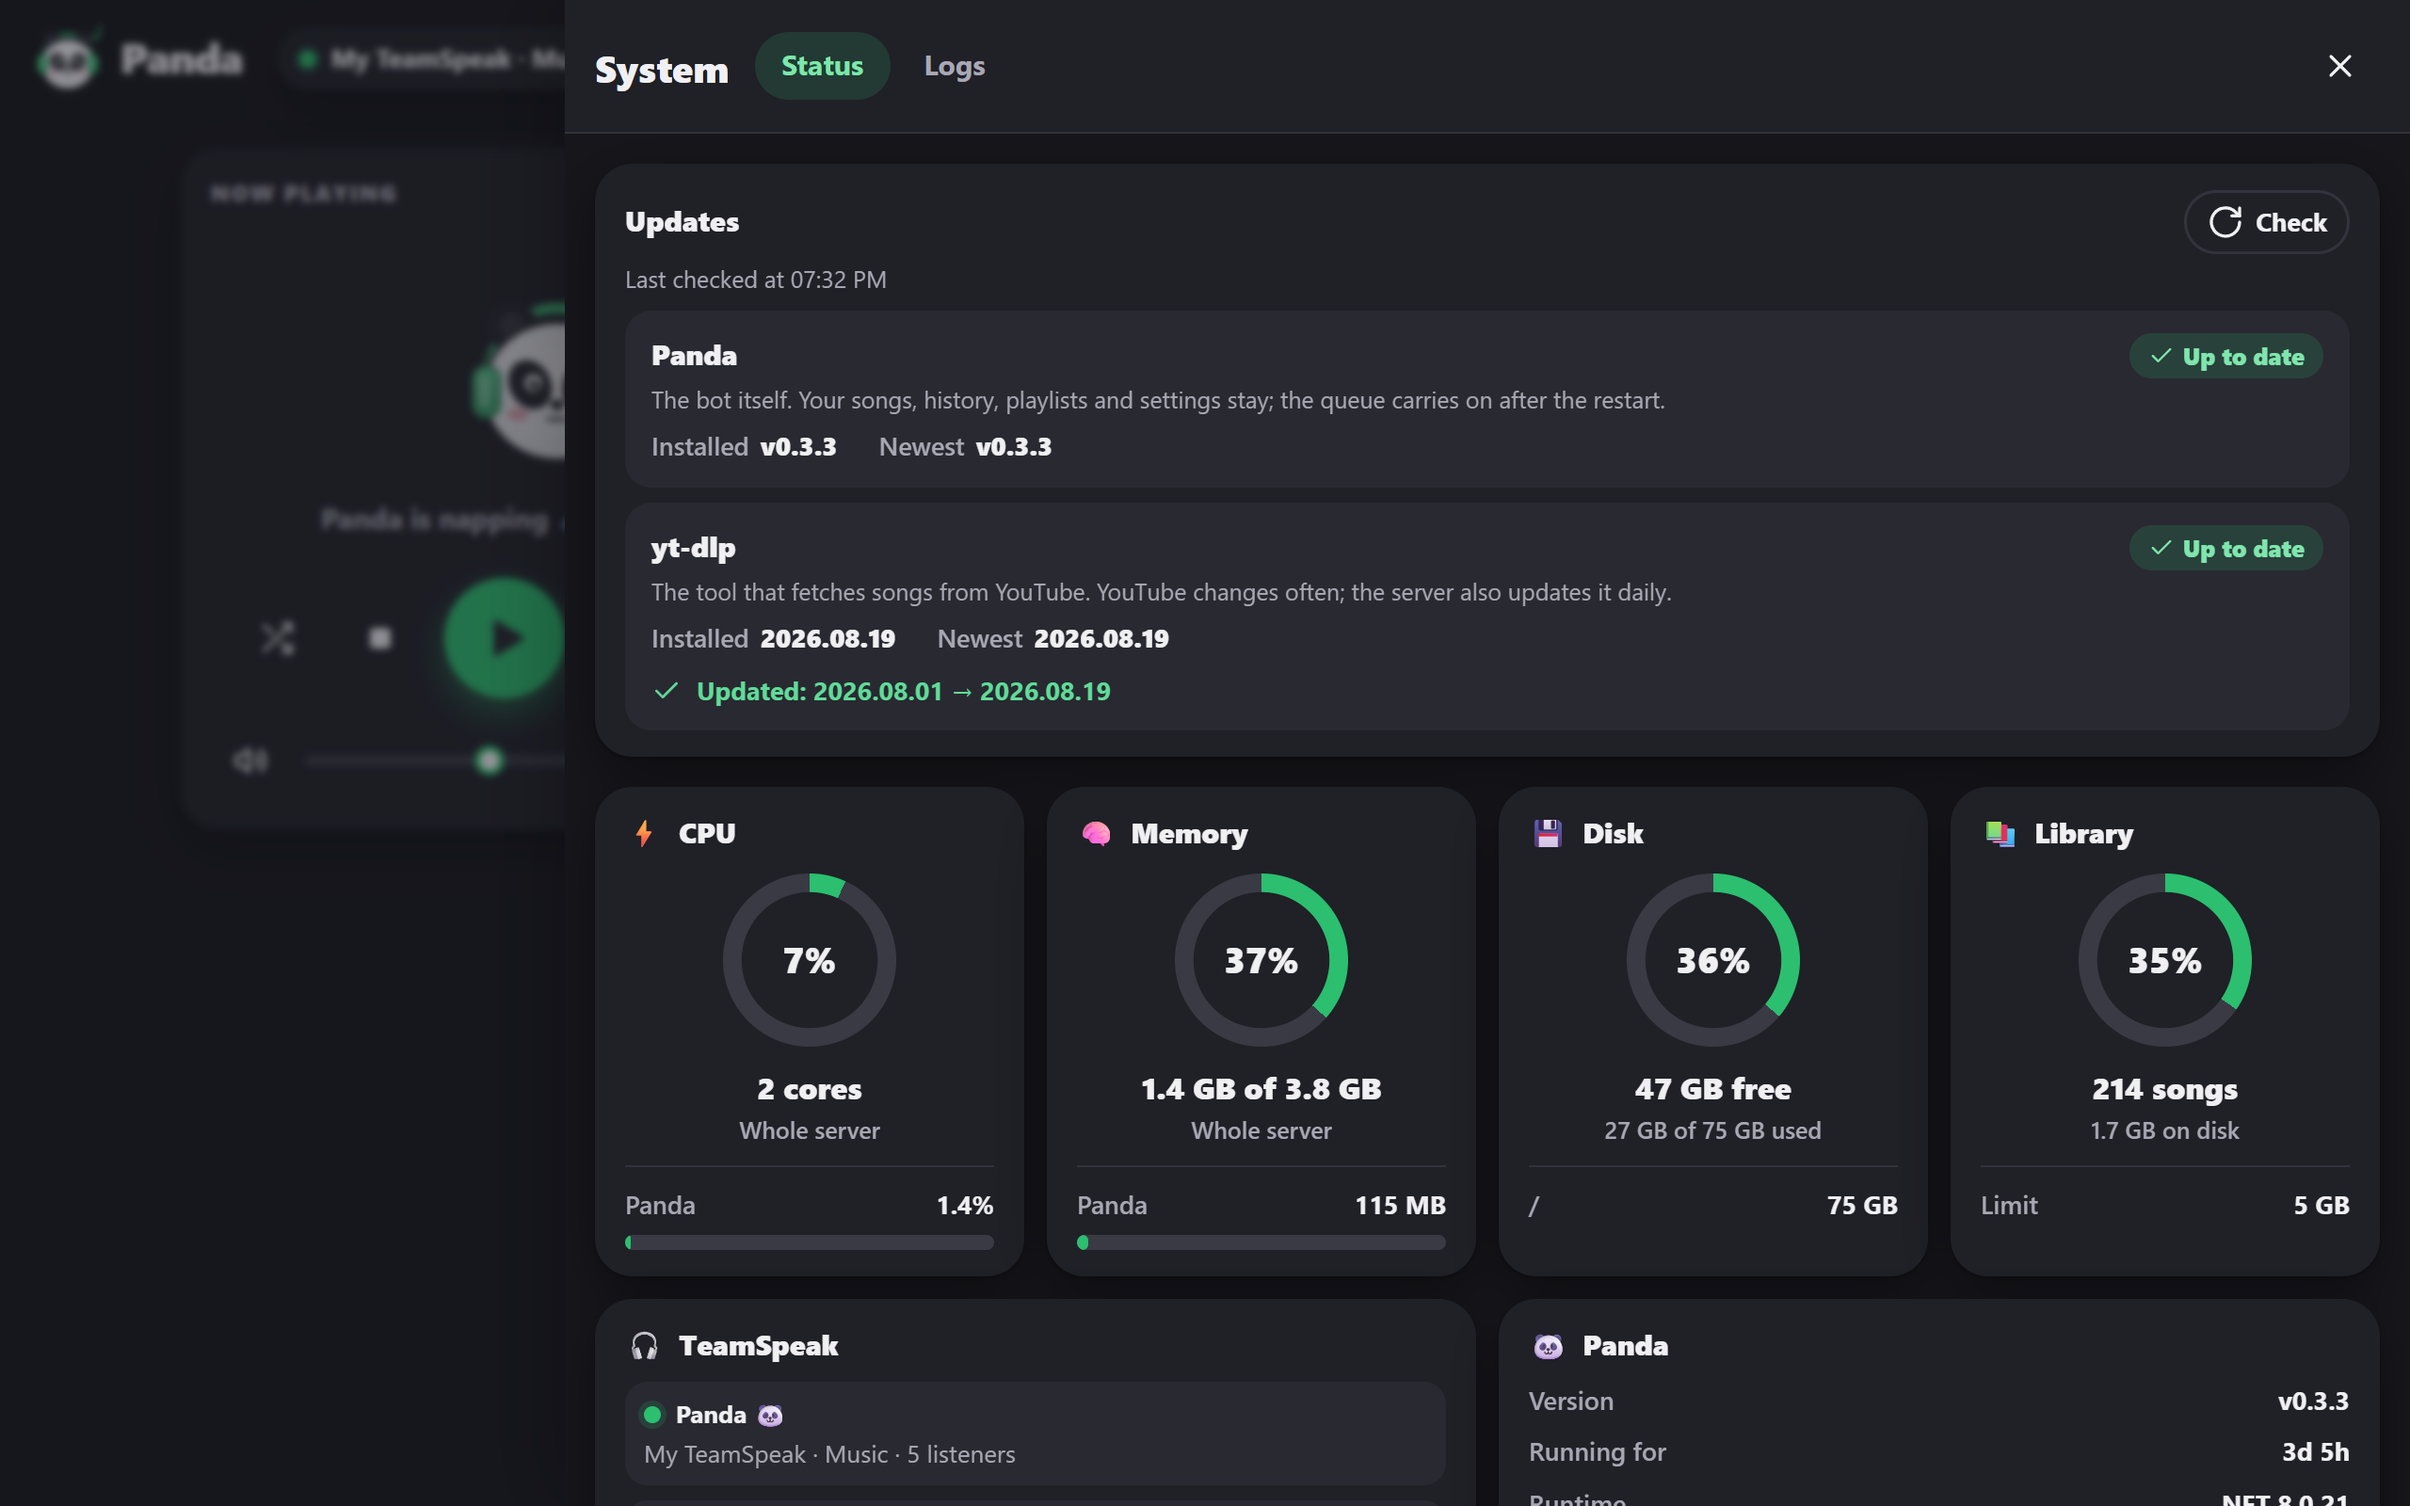
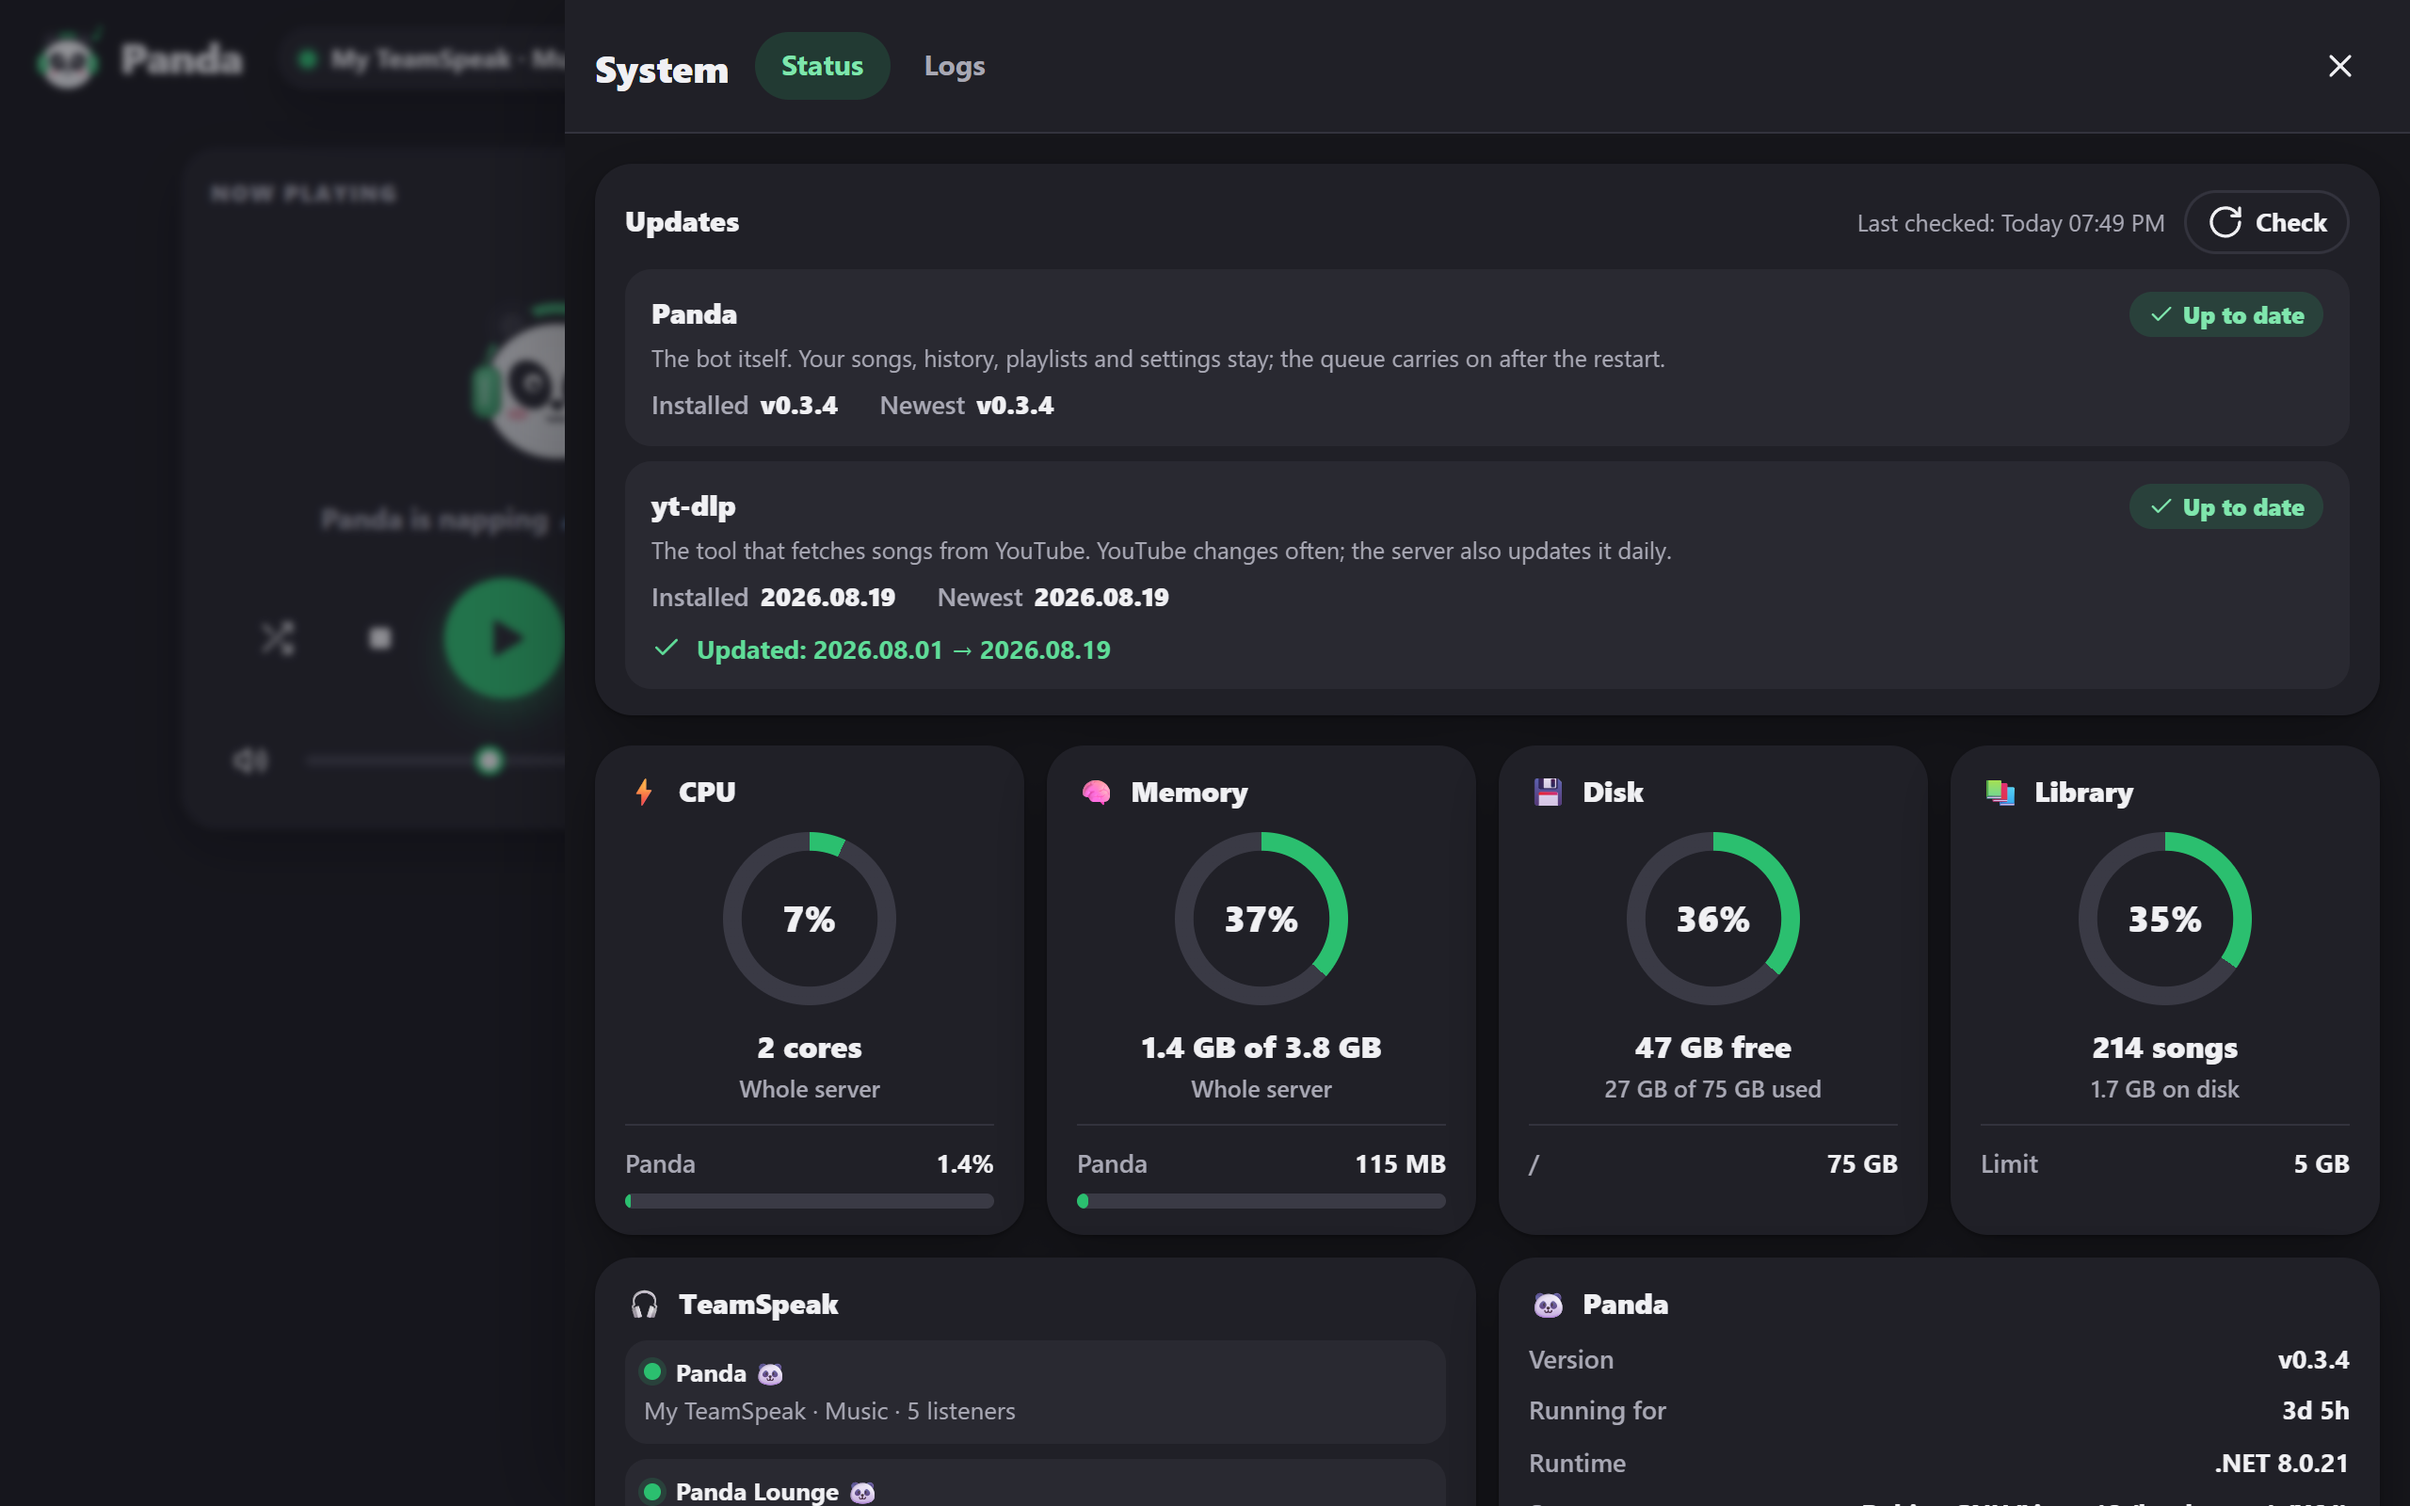
Version 0.3.4: tell when a panel update fails, retry downloads
- If the installer stops (e.g. GitHub answers 500), the panel now says so
  within seconds and offers the button again instead of waiting five
  minutes; Panda logs it too. New: GET /api/update/progress.
- install.sh retries its downloads three times.
- "Last checked" sits beside the Check button and shows the day.
- A yt-dlp update that systemd never picks up no longer restarts itself
  in a loop.

diff --git a/src/Panda/wwwroot/app.js b/src/Panda/wwwroot/app.js
@@ -64,13 +64,14 @@ const I18N = {
     hPanda: 'Panda', hVersion: 'Version', hUptime: 'Running for', hRuntime: 'Runtime', hOs: 'System', hTs: 'TeamSpeak', hCpu: 'CPU', hRam: 'Memory',
     hDisk: 'Disk', hThis: 'Panda', hMachine: 'Whole server', hFree: 'free', hLib: 'Library',
     hUsed: (a, b) => `${a} of ${b} used`, hLibUsed: a => `${a} on disk`, hLibOff: 'Saving is off', hLimit: 'Limit', hNoLimit: 'none', missingTool: 'not found',
-    updates: 'Updates', updCheck: 'Check', updChecked: x => `Last checked at ${x}`, updNotes: 'What\'s new',
+    updates: 'Updates', updCheck: 'Check', updChecked: x => `Last checked: ${x}`, updNotes: 'What\'s new',
     updUnreachable: 'GitHub could not be reached; try again later.', updRelease: 'Release page',
     updInstalled: 'Installed', updNewest: 'Newest', updOk: 'Up to date', updNew: 'New version',
     updPandaWhat: 'The bot itself. Your songs, history, playlists and settings stay; the queue carries on after the restart.',
     updYtWhat: 'The tool that fetches songs from YouTube. YouTube changes often; the server also updates it daily.',
     updNow: 'Update Panda', updStarted: 'Updating… Panda restarts in a minute or two.', updDone: x => `Panda was updated to v${x}. Reloading…`,
     updSlow: 'Panda hasn\'t come back yet; see the logs on the server.',
+    updFailed: 'The update didn\'t go through (GitHub may have had a hiccup). Panda keeps running as it was; try again in a minute.',
     'updHow.docker': 'Docker: in the Panda folder run "git pull && docker compose up -d --build".',
     'updHow.systemd-old': 'Run the installer on the server once more (the command in the README); after that you can update from here.',
     'updHow.manual': 'Download the new release from GitHub and replace the program.',
@@ -144,13 +145,14 @@ const I18N = {
     hPanda: 'Panda', hVersion: 'Sürüm', hUptime: 'Çalışma süresi', hRuntime: 'Çalışma ortamı', hOs: 'Sistem', hTs: 'TeamSpeak', hCpu: 'İşlemci', hRam: 'Bellek',
     hDisk: 'Disk', hThis: 'Panda', hMachine: 'Tüm sunucu', hFree: 'boş', hLib: 'Kütüphane',
     hUsed: (a, b) => `${a} / ${b} dolu`, hLibUsed: a => `diskte ${a}`, hLibOff: 'Kaydetme kapalı', hLimit: 'Sınır', hNoLimit: 'yok', missingTool: 'bulunamadı',
-    updates: 'Güncellemeler', updCheck: 'Denetle', updChecked: x => `Son denetim ${x}`, updNotes: 'Neler yeni',
+    updates: 'Güncellemeler', updCheck: 'Denetle', updChecked: x => `Son denetim: ${x}`, updNotes: 'Neler yeni',
     updUnreachable: 'GitHub\'a ulaşılamadı; sonra tekrar dene.', updRelease: 'Sürüm sayfası',
     updInstalled: 'Kurulu', updNewest: 'En son', updOk: 'Güncel', updNew: 'Yeni sürüm var',
     updPandaWhat: 'Botun kendisi. Şarkılar, geçmiş, listeler ve ayarlar silinmez; kuyruk yeniden başlayınca kaldığı yerden sürer.',
     updYtWhat: 'Şarkıları YouTube\'dan çeken araç. YouTube sık değiştiği için sunucu bunu her gün kendisi de günceller.',
     updNow: 'Panda\'yı güncelle', updStarted: 'Güncelleniyor… Panda bir iki dakika içinde yeniden başlayacak.', updDone: x => `Panda v${x} sürümüne güncellendi. Sayfa yenileniyor…`,
     updSlow: 'Panda henüz geri gelmedi; sunucudaki kayıtlara bak.',
+    updFailed: 'Güncelleme yapılamadı (GitHub anlık bir hata vermiş olabilir). Panda eskisi gibi çalışıyor; bir dakika sonra tekrar dene.',
     'updHow.docker': 'Docker: Panda klasöründe "git pull && docker compose up -d --build" çalıştır.',
     'updHow.systemd-old': 'Sunucuda kurulum komutunu bir kez daha çalıştır (README\'deki komut); sonra buradan güncelleyebilirsin.',
     'updHow.manual': 'Yeni sürümü GitHub\'dan indirip programı değiştir.',
@@ -1160,7 +1162,7 @@ function showSysTab(name) {
 let updateInfo = null, updChecking = false, upgradeWatch = false;
 const updMsg = { panda: null, yt: null };   // { kind: 'busy' | 'ok' | 'err', text }
 
-async function checkUpdate(fresh) {
+async function checkUpdate(fresh, follow = true) {
   if (fresh) {
     updChecking = true;
     for (const k of ['panda', 'yt']) if (updMsg[k]?.kind !== 'busy') updMsg[k] = null;   // a running update stays
@@ -1171,6 +1173,7 @@ async function checkUpdate(fresh) {
   if (u) { updateInfo = u; $('open-system').classList.toggle('badge-dot', !!u.newer); }
   renderUpdate();
   // An update started earlier (before a reload, or from another tab) is still running: follow it.
+  if (!follow) return;
   if (u?.upgrading) waitForUpgrade(u.current);
   if (u?.ytDlpUpdating && updMsg.yt?.kind !== 'busy') updateYtDlp();
 }
@@ -1183,8 +1186,8 @@ function renderUpdate() {
   };
   const check = button(t('updCheck'), 'refresh', () => checkUpdate(true));
   if (updChecking) { check.disabled = true; check.prepend(el('span', { class: 'spin', 'aria-hidden': 'true' })); }
-  const when = u?.checkedAt ? new Date(u.checkedAt).toLocaleTimeString(lang, { hour: '2-digit', minute: '2-digit' }) : '';
-  const sub = u?.error ? el('p', { class: 'hint bad', text: t('updUnreachable') }) : when ? el('p', { class: 'hint', text: t('updChecked', when) }) : null;
+  const when = u?.checkedAt && !u.error ? el('span', { class: 'hint', text: t('updChecked', playedAt(u.checkedAt)) }) : null;
+  const sub = u?.error ? el('p', { class: 'hint bad', text: t('updUnreachable') }) : null;
 
   const item = ({ name, what, installed, newest, newer, msg, actions = [], hint }) => {
     const pill = msg?.kind === 'busy' ? null
@@ -1212,7 +1215,7 @@ function renderUpdate() {
   const ytActions = u && (u.ytDlpNewer || !u.ytDlpLatest || !u.ytDlp) ? [button(t('ytUpdate'), 'download', updateYtDlp, !!u.ytDlpNewer)] : [];
 
   $('update').replaceChildren(
-    el('div', { class: 'upd-head' }, el('h3', { text: t('updates') }), check), sub,
+    el('div', { class: 'upd-head' }, el('h3', { text: t('updates') }), el('div', { class: 'upd-check' }, when, check)), sub ?? '',
     item({ name: 'Panda', what: t('updPandaWhat'), installed: u && 'v' + u.current, newest: u?.latest && 'v' + u.latest,
       newer: u?.newer, msg: updMsg.panda, actions: pandaActions,
       hint: u?.newer && u.install !== 'systemd' ? t('updHow.' + u.install) : null }),
@@ -1234,12 +1237,19 @@ async function waitForUpgrade(from) {
   upgradeWatch = true;
   updMsg.panda = { kind: 'busy', text: t('updStarted') }; renderUpdate();
   try {
-    for (let i = 0; i < 60; i++) {
+    for (let i = 0, idle = 0; i < 60; i++) {
       await new Promise(r => setTimeout(r, 5000));
-      const v = await api('GET', '/api/version').catch(() => null);
-      if (v && v.version !== from) {
-        updMsg.panda = { kind: 'ok', text: t('updDone', v.version) }; renderUpdate();
+      // Fails while Panda restarts; the new Panda answers with its version.
+      const p = await api('GET', '/api/update/progress').catch(() => null);
+      if (!p) continue;
+      if (p.version !== from) {
+        updMsg.panda = { kind: 'ok', text: t('updDone', p.version) }; renderUpdate();
         setTimeout(() => location.reload(), 2000); return;
+      }
+      // "idle" twice in a row: the installer finished without bringing a new Panda.
+      idle = p.state === 'idle' ? idle + 1 : 0;
+      if (p.state === 'failed' || idle >= 2) {
+        updMsg.panda = { kind: 'err', text: t('updFailed') }; renderUpdate(); return;
       }
     }
     updMsg.panda = { kind: 'err', text: t('updSlow') }; renderUpdate();
@@ -1258,7 +1268,7 @@ async function updateYtDlp() {
       : { kind: 'err', text: t('err.ytdlp-update-failed') };
   } catch (e) { updMsg.yt = { kind: 'err', text: errText(e) }; }
   if (updMsg.yt.kind === 'busy') updMsg.yt.kind = 'ok';   // nothing runs here any more; just a note
-  await checkUpdate(false);
+  await checkUpdate(false, false);   // following again would start the update again if systemd never picked it up
 }
 
 /** Refreshes every 3 s while the status tab is open. */

diff --git a/src/Panda/wwwroot/style.css b/src/Panda/wwwroot/style.css
@@ -402,7 +402,9 @@ dialog::backdrop { background: rgba(22,22,30,.45); backdrop-filter: blur(2px); }
   font: 12.5px/1.5 ui-monospace, SFMono-Regular, Consolas, monospace; white-space: pre-wrap; overflow-wrap: anywhere; }
 .update details summary { cursor: pointer; font-weight: 700; font-size: 13.5px; color: var(--accent-text); }
 .update .new { color: var(--accent-text); }
-.upd-head { display: flex; align-items: center; justify-content: space-between; gap: 12px; }
+.upd-head { display: flex; flex-wrap: wrap; align-items: center; justify-content: space-between; gap: 8px 12px; }
+.upd-check { display: flex; align-items: center; gap: 10px; margin-left: auto; }
+.upd-check .hint { margin: 0; font-size: 12.5px; }
 .update .hint.bad { color: var(--danger); }
 .upd-item { display: grid; gap: 6px; padding: 12px 14px; border-radius: 14px; background: var(--surface-2); min-width: 0; }
 .upd-top { display: flex; align-items: center; justify-content: space-between; gap: 10px; }

diff --git a/src/Panda/Updates.cs b/src/Panda/Updates.cs
@@ -116,8 +116,30 @@ public sealed class Updates(PandaConfig config, DataPaths paths, SystemInfo syst
 		if (await UpgradingAsync()) return true; // already on its way: a second click changes nothing
 		log.LogInformation("Updating Panda: the installer runs now and restarts Panda");
 		File.WriteAllText(UpgradeTrigger, DateTimeOffset.UtcNow.ToString("o"));
+		upgradeFailLogged = false;
 		return true;
 	}
+
+	/// <summary>
+	/// How the update started with <see cref="StartUpgradeAsync"/> is going: "running", "failed" (the
+	/// installer stopped with an error, e.g. a download failed; this Panda keeps running), or "idle".
+	/// A successful update restarts Panda, so the panel sees the new version instead.
+	/// </summary>
+	public async Task<string> UpgradeStateAsync()
+	{
+		if (await UpgradingAsync()) return "running";
+		if (InstallKind() != "systemd") return "idle";
+		var (_, result) = await RunAsync("systemctl", "show -p Result --value panda-upgrade.service");
+		if (result.Trim() is "" or "success") return "idle";
+		if (!upgradeFailLogged)
+		{
+			upgradeFailLogged = true;
+			log.LogWarning("The update failed ({Result}); Panda keeps running. Details: journalctl -u panda-upgrade", result.Trim());
+		}
+		return "failed";
+	}
+
+	bool upgradeFailLogged;
 
 	/// <summary>
 	/// Updates yt-dlp and waits for the result. On installs made by install.sh systemd does it (the

diff --git a/src/Panda/PanelApi.cs b/src/Panda/PanelApi.cs
@@ -189,6 +189,7 @@ public static class PanelApi
 		admin.MapGet("/update", async (bool? fresh, Updates updates) => await updates.CheckAsync(fresh == true));
 		admin.MapPost("/update", async (Updates updates) =>
 			await updates.StartUpgradeAsync() ? Results.Accepted() : Problem("cannot-update"));
+		admin.MapGet("/update/progress", async (Updates updates) => new { version = Version, state = await updates.UpgradeStateAsync() });
 		admin.MapPost("/update/yt-dlp", async (Updates updates) =>
 		{
 			try
